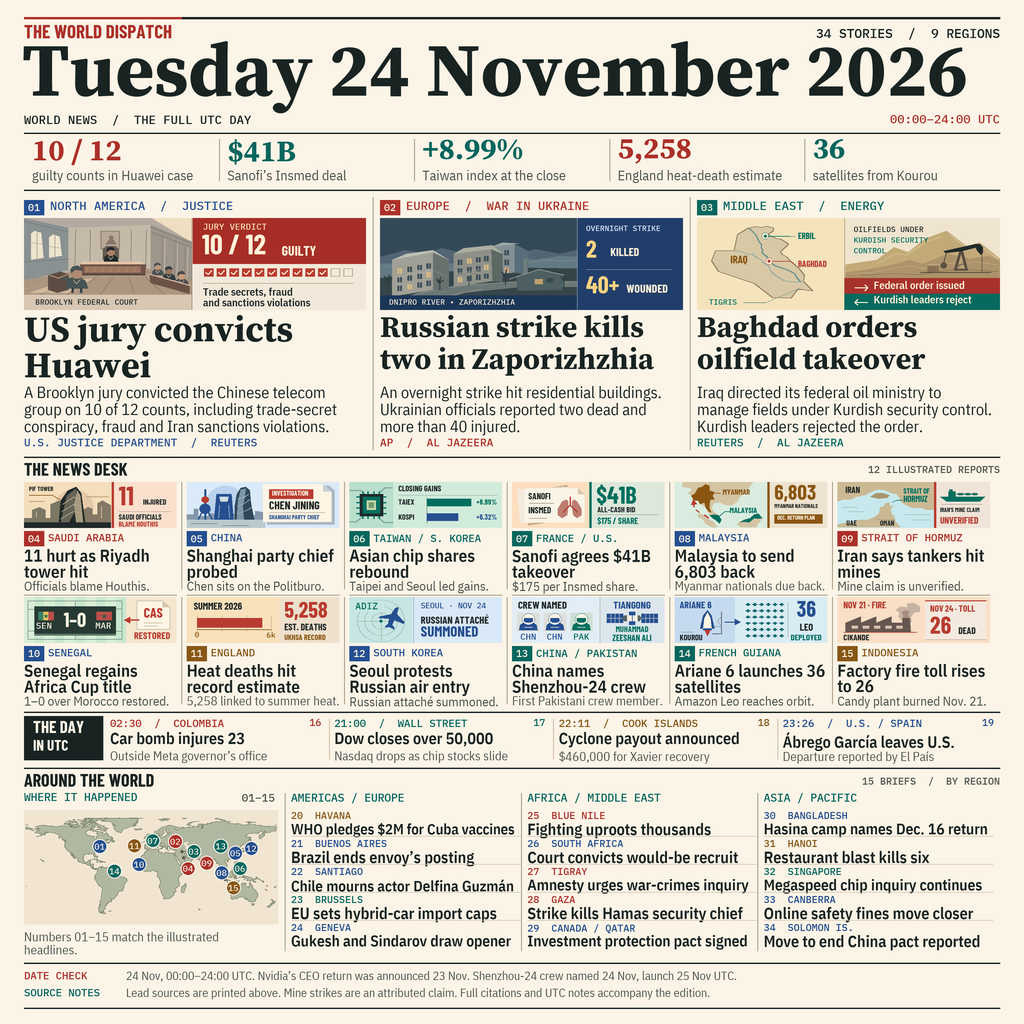
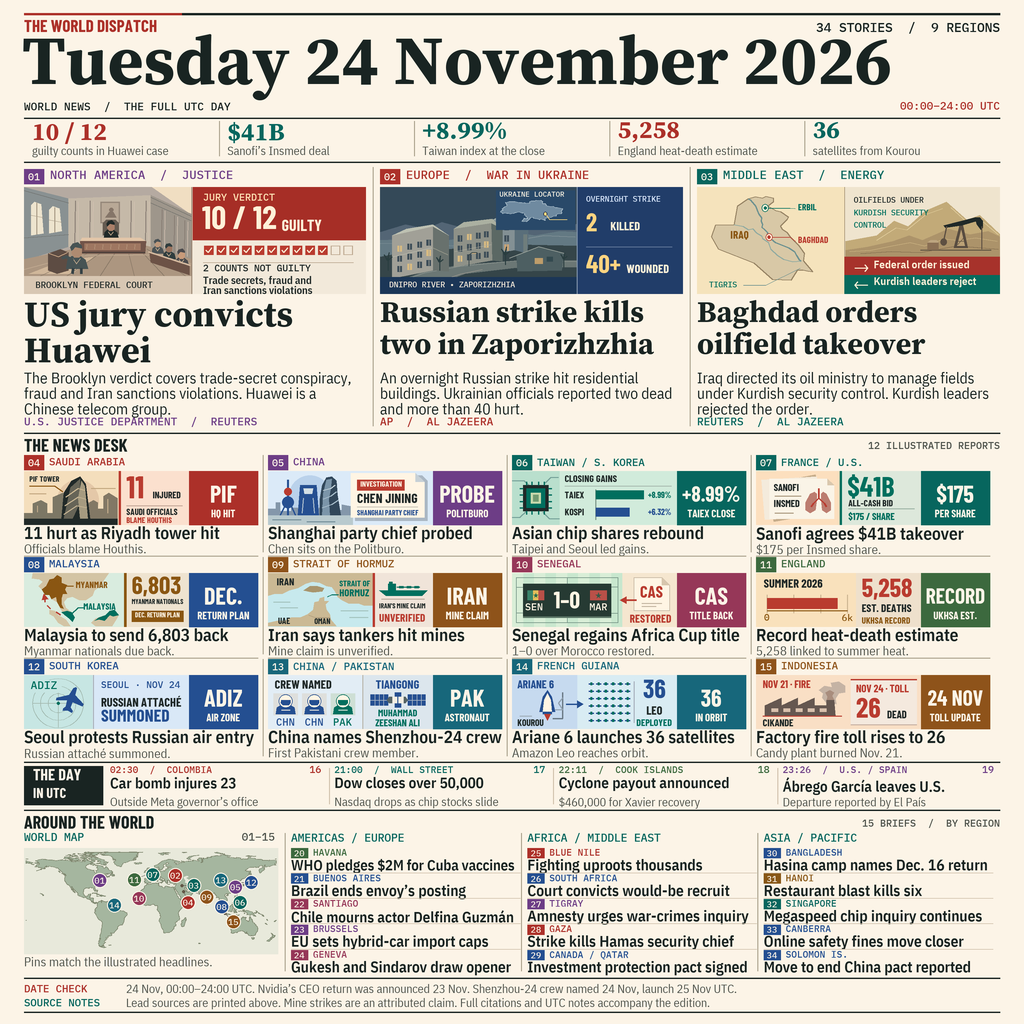
Strengthen news diagrams and topic indexing

diff --git a/render.py b/render.py
@@ -8,7 +8,7 @@ from pathlib import Path
 
 from PIL import Image, ImageDraw, ImageFont
 
-from edition import BRIEFS, DATE_NOTE, DESK, FIGURES, LEADS, ORDER, SOURCE_NOTE, WIRE
+from edition import BRIEFS, DATE_NOTE, DESK, DESK_SIGNAL, FIGURES, LEADS, ORDER, SOURCE_NOTE, WIRE
 
 
 ROOT = Path(__file__).resolve().parent
@@ -24,6 +24,18 @@ TEAL = "#07665e"
 BLUE = "#244f91"
 OCHRE = "#885716"
 ACCENT = {"conflict": RED, "economy": TEAL, "society": OCHRE, "politics": BLUE}
+VIOLET = "#6d3d86"
+GREEN = "#3c693e"
+RASPBERRY = "#963758"
+AMBER = "#8e531a"
+MARINE = "#17677b"
+TOPIC_ACCENT = {
+    3: VIOLET, 6: VIOLET, 13: VIOLET, 17: VIOLET, 22: VIOLET,
+    5: GREEN, 11: GREEN, 30: GREEN,
+    9: RASPBERRY, 12: RASPBERRY, 14: RASPBERRY,
+    19: AMBER, 32: AMBER,
+    23: MARINE, 31: MARINE,
+}
 REGIONS = {
     "North America", "Latin America", "Europe", "Africa", "Middle East",
     "South Asia", "East Asia", "Southeast Asia", "Oceania",
@@ -145,6 +157,10 @@ def place_art(page, x, y, width, height, artwork, native_size):
     page.image.paste(canvas.image, px(x, y))
 
 
+def story_color(key, stories):
+    return TOPIC_ACCENT.get(key, ACCENT[stories[key]["category"]])
+
+
 def badge(page, x, y, number, color):
     page.rect(x, y, 20, 15, color)
     page.text(x + 10, y + 7.5, f"{number:02}", "mono", 10, PAPER, anchor="mm")
@@ -157,14 +173,14 @@ def heading(page, y, text, aside):
 
 
 def masthead(page, count, regions):
-    page.line([(LEFT, 18), (LEFT + 158, 18)], RED, 2.2)
-    page.line([(LEFT + 158, 18), (RIGHT, 18)], INK, 2.2)
-    page.text(LEFT, 25, "THE WORLD DISPATCH", "condensed", 19, RED)
-    page.text(RIGHT, 28, f"{count} STORIES  /  {regions} REGIONS", "mono", 13, INK, anchor="rt")
-    page.fit(LEFT - 2, 41, "Tuesday 24 November 2026", "serif", 75, RIGHT - LEFT + 1, 61)
-    page.text(LEFT, 115, "WORLD NEWS  /  THE FULL UTC DAY", "mono", 12, INK)
-    page.text(RIGHT, 115, "00:00–24:00 UTC", "mono", 12, RED, anchor="rt")
-    page.line([(LEFT, 133), (RIGHT, 133)], INK, 1.2)
+    page.line([(LEFT, 14), (LEFT + 158, 14)], RED, 2.2)
+    page.line([(LEFT + 158, 14), (RIGHT, 14)], INK, 2.2)
+    page.text(LEFT, 20, "THE WORLD DISPATCH", "condensed", 17, RED)
+    page.text(RIGHT, 22, f"{count} STORIES  /  {regions} REGIONS", "mono", 13, INK, anchor="rt")
+    page.fit(LEFT - 2, 34, "Tuesday 24 November 2026", "serif", 69, RIGHT - LEFT + 1, 61)
+    page.text(LEFT, 102, "WORLD NEWS  /  THE FULL UTC DAY", "mono", 11, INK)
+    page.text(RIGHT, 102, "00:00–24:00 UTC", "mono", 11, RED, anchor="rt")
+    page.line([(LEFT, 118), (RIGHT, 118)], INK, 1.2)
 
 
 def numbers(page):
@@ -172,10 +188,10 @@ def numbers(page):
     for index, (figure, label) in enumerate(FIGURES):
         x = LEFT + index * width
         if index:
-            page.line([(x, 139), (x, 181)])
-        page.text(x + 8, 139, figure, "serif", 30, RED if index in (0, 3) else TEAL)
-        page.text(x + 8, 170, label, "body", 14, MUTED, width=width - 15)
-    page.line([(LEFT, 190), (RIGHT, 190)], INK, 1.5)
+            page.line([(x, 121), (x, 156)])
+        page.text(x + 8, 122, figure, "serif", 25, RED if index in (0, 3) else TEAL)
+        page.text(x + 8, 146, label, "body", 12, MUTED, width=width - 15)
+    page.line([(LEFT, 162), (RIGHT, 162)], INK, 1.5)
 
 
 def lead_section(page, stories, positions):
@@ -183,16 +199,16 @@ def lead_section(page, stories, positions):
 
     spans = [(24, 342), (380, 303), (697, 303)]
     for (key, (kicker, title, summary, sources, illustration)), (x, width) in zip(LEADS.items(), spans):
-        color = ACCENT[stories[key]["category"]]
+        color = story_color(key, stories)
         if x != LEFT:
-            page.line([(x - 7, 197), (x - 7, 450)], RULE)
-        badge(page, x, 200, positions[key], color)
-        page.text(x + 26, 201, kicker, "mono", 12, color, width=width - 26)
-        place_art(page, x, 218, width, 92, LEAD_ART[illustration], (300, 95))
+            page.line([(x - 7, 167), (x - 7, 426)], RULE)
+        badge(page, x, 169, positions[key], color)
+        page.text(x + 26, 170, kicker, "mono", 12, color, width=width - 26)
+        place_art(page, x, 187, width, 107, LEAD_ART[illustration], (300, 95))
         title_size = 36 if key == 3 else 30
-        n = page.paragraph(x, 315, title, "serif", title_size, width, 2, 36 if key == 3 else 32)
-        page.paragraph(x, 322 + 32 * n, summary, "body", 16, width - 5, 3, 17)
-        page.text(x, 438, sources, "mono", 11, color, width=width)
+        n = page.paragraph(x, 300, title, "serif", title_size, width, 2, 36 if key == 3 else 32)
+        page.paragraph(x, 308 + 32 * n, summary, "body", 15.5, width - 5, 3, 15.5)
+        page.text(x, 417, sources, "mono", 11, color, width=width)
 
 
 def newsroom(page, stories, positions):
@@ -202,38 +218,46 @@ def newsroom(page, stories, positions):
     artwork = DESK_ART_A | DESK_ART_B
     if set(artwork) != set(DESK):
         raise ValueError("Each desk story needs a dedicated illustration.")
-    heading(page, 457, "THE NEWS DESK", "12 ILLUSTRATED REPORTS")
-    column = (RIGHT - LEFT) / 6
+    heading(page, 433, "THE NEWS DESK", "12 ILLUSTRATED REPORTS")
+    column = (RIGHT - LEFT) / 4
     for index, (key, (loc, title, detail)) in enumerate(DESK.items()):
-        row, col = divmod(index, 6)
-        x, y = LEFT + col * column, 482 + row * 115
-        color = ACCENT[stories[key]["category"]]
+        row, col = divmod(index, 4)
+        x, y = LEFT + col * column, 455 + row * 102
+        color = story_color(key, stories)
         if row:
-            page.line([(x, y - 2), (x + column - 10, y - 2)], RULE)
+            page.line([(x, y - 1), (x + column - 10, y - 1)], RULE)
         if col:
-            page.line([(x - 5, y), (x - 5, y + 107)], RULE)
-        place_art(page, x, y, column - 10, 46, artwork[key], (150, 50))
-        badge(page, x, y + 49, positions[key], color)
-        page.fit(x + 24, y + 52, loc, "mono", 10.5, column - 34, 9, color)
-        page.paragraph(x, y + 67, title, "semibold", 17, column - 10, 2, 16)
-        page.fit(x, y + 99, detail, "body", 13, column - 10, 12, MUTED)
+            page.line([(x - 5, y), (x - 5, y + 97)], RULE)
+        badge(page, x, y, positions[key], color)
+        page.text(x + 25, y + 3, loc, "mono", 10.5, color, width=column - 34)
+        place_art(page, x, y + 16, 165, 54, artwork[key], (150, 50))
+        data_x, data_width = x + 165, column - 175
+        page.rect(data_x, y + 16, data_width, 54, color)
+        value, label = DESK_SIGNAL[key]
+        value_size = 21.5 if len(value) > 5 else 24
+        page.text(data_x + data_width / 2, y + 38, value, "condensed", value_size, PAPER,
+                  width=data_width - 8, anchor="mm")
+        page.text(data_x + data_width / 2, y + 58, label, "condensed", 10.5, PAPER,
+                  width=data_width - 4, anchor="mm")
+        page.fit(x, y + 71, title, "semibold", 17.5, column - 10, 16.5)
+        page.fit(x, y + 89, detail, "body", 12.5, column - 10, 12, MUTED)
 
 
 def timeline(page, stories, positions):
-    page.line([(LEFT, 712), (RIGHT, 712)], INK, 1.2)
-    page.rect(LEFT, 716, 79, 44, INK)
-    page.text(LEFT + 9, 721, "THE DAY", "condensed", 17, PAPER)
-    page.text(LEFT + 9, 740, "IN UTC", "condensed", 15, PAPER)
+    page.line([(LEFT, 762), (RIGHT, 762)], INK, 1.2)
+    page.rect(LEFT, 766, 79, 39, INK)
+    page.text(LEFT + 9, 769, "THE DAY", "condensed", 16, PAPER)
+    page.text(LEFT + 9, 788, "IN UTC", "condensed", 14, PAPER)
     step = (RIGHT - LEFT - 79) / len(WIRE)
     for index, (key, (time, place, title, detail)) in enumerate(WIRE.items()):
         x = LEFT + 86 + index * step
-        color = ACCENT[stories[key]["category"]]
+        color = story_color(key, stories)
         if index:
-            page.line([(x - 5, 719), (x - 5, 759)], SOFT_RULE)
-        page.text(x, 719, f"{time}  /  {place}", "mono", 10.5, color, width=step - 26)
-        page.text(x + step - 13, 719, f"{positions[key]:02}", "mono", 10, color, anchor="rt")
-        page.fit(x, 732, title, "semibold", 16, step - 10, 15)
-        page.text(x, 751, detail, "body", 12.5, MUTED, width=step - 11)
+            page.line([(x - 5, 768), (x - 5, 804)], SOFT_RULE)
+        page.text(x, 766, f"{time}  /  {place}", "mono", 9.5, color, width=step - 26)
+        page.text(x + step - 13, 766, f"{positions[key]:02}", "mono", 10, color, anchor="rt")
+        page.fit(x, 777, title, "semibold", 15, step - 10, 14)
+        page.text(x, 797, detail, "body", 12, MUTED, width=step - 11)
 
 
 def positions_for_map(page, stories, positions, area):
@@ -254,7 +278,7 @@ def positions_for_map(page, stories, positions, area):
                 continue
             for i, ring in enumerate(polygon):
                 coords = [slide(lon, min(north, max(south, lat))) for lon, lat in ring]
-                page.polygon(coords, "#b1b8a1" if i == 0 else "#f1e5d2")
+                page.polygon(coords, "#a5b69f" if i == 0 else "#e8e9db")
                 if i == 0:
                     page.line(coords, "#7f876f", .75)
 
@@ -283,41 +307,43 @@ def positions_for_map(page, stories, positions, area):
             page.line([(x, y), (mx, my)], "#6b695f", .8)
             page.disk(x, y, 1.5, "#625847")
     for key, _, _, mx, my in located:
-        color = ACCENT[stories[key]["category"]]
+        color = story_color(key, stories)
         page.disk(mx, my, 7.3, color, PAPER)
         page.text(mx, my, f"{positions[key]:02}", "mono", 8.7, PAPER, anchor="mm")
 
 
 def index_and_briefs(page, stories, positions):
-    heading(page, 768, "AROUND THE WORLD", "15 BRIEFS  /  BY REGION")
-    page.text(LEFT, 793, "WHERE IT HAPPENED", "mono", 11.5, TEAL)
-    page.text(LEFT + 251, 794, "01–15", "mono", 11, MUTED, anchor="rt")
-    page.rect(LEFT, 810, 254, 114, "#f1e5d2")
-    positions_for_map(page, stories, positions, (LEFT + 2, 818, 250, 96))
-    page.paragraph(LEFT, 932, "Numbers 01–15 match the illustrated headlines.",
+    heading(page, 810, "AROUND THE WORLD", "15 BRIEFS  /  BY REGION")
+    page.text(LEFT, 833, "WORLD MAP", "mono", 11.5, TEAL)
+    page.text(LEFT + 251, 833, "01–15", "mono", 11, MUTED, anchor="rt")
+    page.rect(LEFT, 848, 254, 106, "#e8e9db")
+    positions_for_map(page, stories, positions, (LEFT + 2, 852, 250, 96))
+    page.paragraph(LEFT, 957, "Pins match the illustrated headlines.",
                    "body", 12.5, 249, 2, 13, MUTED)
     names = ("AMERICAS / EUROPE", "AFRICA / MIDDLE EAST", "ASIA / PACIFIC")
     width = (RIGHT - 291) / len(BRIEFS)
     for col, (name, briefs) in enumerate(zip(names, BRIEFS)):
         x = 291 + col * width
-        page.line([(x - 6, 793), (x - 6, 951)], RULE)
-        page.text(x, 793, name, "mono", 11.5, TEAL)
+        page.line([(x - 6, 833), (x - 6, 971)], RULE)
+        page.text(x, 833, name, "mono", 11.5, TEAL)
         for row, (key, place, title) in enumerate(briefs):
-            y = 811 + row * 28
+            y = 848 + row * 25.5
             if row:
-                page.line([(x, y - 3), (x + width - 7, y - 3)], SOFT_RULE, .75)
-            color = ACCENT[stories[key]["category"]]
-            page.text(x, y + 1, f"{positions[key]:02}  {place}", "mono", 10, color)
-            page.fit(x, y + 12, title, "semibold", 16, width - 12, 14.5)
+                page.line([(x, y - 1), (x + width - 7, y - 1)], SOFT_RULE, .75)
+            color = story_color(key, stories)
+            page.rect(x, y, 17, 10, color)
+            page.text(x + 8.5, y + 5, f"{positions[key]:02}", "mono", 8.5, PAPER, anchor="mm")
+            page.text(x + 22, y + 1, place, "mono", 9.5, color)
+            page.fit(x, y + 11, title, "semibold", 15.5, width - 12, 14)
 
 
 def footer(page):
-    page.line([(LEFT, 963), (RIGHT, 963)], INK, 1.2)
+    page.line([(LEFT, 978), (RIGHT, 978)], INK, 1.2)
     for index, (label, note) in enumerate((DATE_NOTE, SOURCE_NOTE)):
-        y = 971 + index * 17
+        y = 984 + index * 14
         page.text(LEFT, y + 1, label, "mono", 10.5, RED if not index else TEAL)
         page.text(LEFT + 102, y, note, "body", 12, MUTED, width=RIGHT - LEFT - 102)
-    page.line([(LEFT, 1008), (RIGHT, 1008)], INK, 1.2)
+    page.line([(LEFT, 1012), (RIGHT, 1012)], INK, 1.2)
 
 
 def render(story_data):

diff --git a/edition.py b/edition.py
@@ -4,21 +4,21 @@ LEADS = {
     3: (
         "NORTH AMERICA  /  JUSTICE",
         "US jury convicts Huawei",
-        "A Brooklyn jury convicted the Chinese telecom group on 10 of 12 counts, including trade-secret conspiracy, fraud and Iran sanctions violations.",
+        "The Brooklyn verdict covers trade-secret conspiracy, fraud and Iran sanctions violations. Huawei is a Chinese telecom group.",
         "U.S. JUSTICE DEPARTMENT  /  REUTERS",
         "verdict",
     ),
     2: (
         "EUROPE  /  WAR IN UKRAINE",
         "Russian strike kills two in Zaporizhzhia",
-        "An overnight strike hit residential buildings. Ukrainian officials reported two dead and more than 40 injured.",
+        "An overnight Russian strike hit residential buildings. Ukrainian officials reported two dead and more than 40 hurt.",
         "AP  /  AL JAZEERA",
         "ukraine",
     ),
     18: (
         "MIDDLE EAST  /  ENERGY",
         "Baghdad orders oilfield takeover",
-        "Iraq directed its federal oil ministry to manage fields under Kurdish security control. Kurdish leaders rejected the order.",
+        "Iraq directed its oil ministry to manage fields under Kurdish security control. Kurdish leaders rejected the order.",
         "REUTERS  /  AL JAZEERA",
         "oil",
     ),
@@ -41,11 +41,27 @@ DESK = {
     27: ("MALAYSIA", "Malaysia to send 6,803 back", "Myanmar nationals due back."),
     19: ("STRAIT OF HORMUZ", "Iran says tankers hit mines", "Mine claim is unverified."),
     14: ("SENEGAL", "Senegal regains Africa Cup title", "1–0 over Morocco restored."),
-    11: ("ENGLAND", "Heat deaths hit record estimate", "5,258 linked to summer heat."),
+    11: ("ENGLAND", "Record heat-death estimate", "5,258 linked to summer heat."),
     24: ("SOUTH KOREA", "Seoul protests Russian air entry", "Russian attaché summoned."),
     23: ("CHINA / PAKISTAN", "China names Shenzhou-24 crew", "First Pakistani crew member."),
     31: ("FRENCH GUIANA", "Ariane 6 launches 36 satellites", "Amazon Leo reaches orbit."),
     32: ("INDONESIA", "Factory fire toll rises to 26", "Candy plant burned Nov. 21."),
+}
+
+# A large figure and its qualifier extend each visual across the desk column.
+DESK_SIGNAL = {
+    21: ("PIF", "HQ HIT"),
+    22: ("PROBE", "POLITBURO"),
+    1: ("+8.99%", "TAIEX CLOSE"),
+    10: ("$175", "PER SHARE"),
+    27: ("DEC.", "RETURN PLAN"),
+    19: ("IRAN", "MINE CLAIM"),
+    14: ("CAS", "TITLE BACK"),
+    11: ("RECORD", "UKHSA EST."),
+    24: ("ADIZ", "AIR ZONE"),
+    23: ("PAK", "ASTRONAUT"),
+    31: ("36", "IN ORBIT"),
+    32: ("24 NOV", "TOLL UPDATE"),
 }
 
 WIRE = {

diff --git a/illustrations_leads.py b/illustrations_leads.py
@@ -1,5 +1,8 @@
 """Original front-page vignettes drawn on a 300 by 95 logical canvas."""
 
+import json
+from pathlib import Path
+
 INK = "#202928"
 RUST = "#b93b2f"
 PETROL = "#006f5e"
@@ -86,8 +89,9 @@ def verdict(c):
         else:
             c.rect(x + .8, 52.8, 6.6, 6.6, "#f2e9da")
     c.line([(157, 67), (289, 67)], "#bca892", .7)
-    c.text(157, 72, "Trade secrets, fraud", 11, INK, "semibold")
-    c.text(157, 83, "and sanctions violations", 11, INK, "semibold")
+    c.text(157, 69, "2 COUNTS NOT GUILTY", 8.5, INK, "mono")
+    c.text(157, 79, "Trade secrets, fraud and", 9.5, INK, "semibold")
+    c.text(157, 88, "Iran sanctions violations", 9.5, INK, "semibold")
 
 
 def _apartments(c, front, side, roof, facade, shadow, coping, windows):
@@ -98,6 +102,25 @@ def _apartments(c, front, side, roof, facade, shadow, coping, windows):
         w, h = 4.3, 5.1
         c.rect(x, y, w, h, color)
         c.line([(x + 2.1, y + .2), (x + 2.1, y + h - .2)], facade, .53)
+
+
+def _zaporizhzhia_locator(c):
+    """Locate the city within the Natural Earth outline at newsprint scale."""
+    outline_path = Path(__file__).with_name("assets") / "ukraine-locator.json"
+    rings = json.loads(outline_path.read_text(encoding="utf-8"))
+
+    def project(lon, lat):
+        return 119 + (lon - 22) * 3.4, 11 + (52.5 - lat) * 2.75
+
+    c.rect(115, 3, 78, 35, "#294969")
+    for ring in rings:
+        outline = [project(lon, lat) for lon, lat in ring]
+        c.polygon(outline, "#6f8aa0")
+        c.line(outline, "#aec1cd", .5)
+    x, y = project(35.14, 47.84)
+    c.disk(x, y, 1.8, "#ffdb80", "#252f46")
+    c.text(118, 4, "UKRAINE LOCATOR", 7.1, "#f5efdf", "mono")
+    c.line([(x + 1.1, y + 1.1), (x + 4, y + 5), (185, y + 5)], "#ffdb80", .6)
 
 
 def ukraine(c):
@@ -154,6 +177,7 @@ def ukraine(c):
     c.line([(91, 58.5), (95, 58.5)], "#e0bb83", .8)
     c.rect(0, 80, 197, 15, "#1b3657")
     c.text(9, 84, "DNIPRO RIVER • ZAPORIZHZHIA", 8, "#f3e9d9", "mono")
+    _zaporizhzhia_locator(c)
 
     c.rect(195, 0, 105, 95, "#213d69")
     c.line([(195, 0), (195, 95)], "#8093aa", .85)

diff --git a/README.md b/README.md
@@ -31,6 +31,6 @@ The artwork uses 3× supersampling and a Lanczos reduction. The verification com
 
 ## Credits
 
-The entry code and original artwork are MIT licensed. Source Serif 4, Barlow Condensed, IBM Plex Sans Condensed and IBM Plex Mono are distributed with their [OFL license texts](assets). Natural Earth's 1:110m [land layer](https://www.naturalearthdata.com/downloads/110m-physical-vectors/110m-land/) is public domain.
+The entry code and original artwork are MIT licensed. Source Serif 4, Barlow Condensed, IBM Plex Sans Condensed and IBM Plex Mono are distributed with their [OFL license texts](assets). The world map uses Natural Earth's public-domain [1:110m land layer](https://www.naturalearthdata.com/downloads/110m-physical-vectors/110m-land/). The Zaporizhzhia locator uses the corresponding [1:110m country outline](https://www.naturalearthdata.com/downloads/110m-cultural-vectors/110m-admin-0-countries/).
 
 Built for [make.fun's 24 November world news image bounty](https://make.fun/bounty/news-image-20261124).
